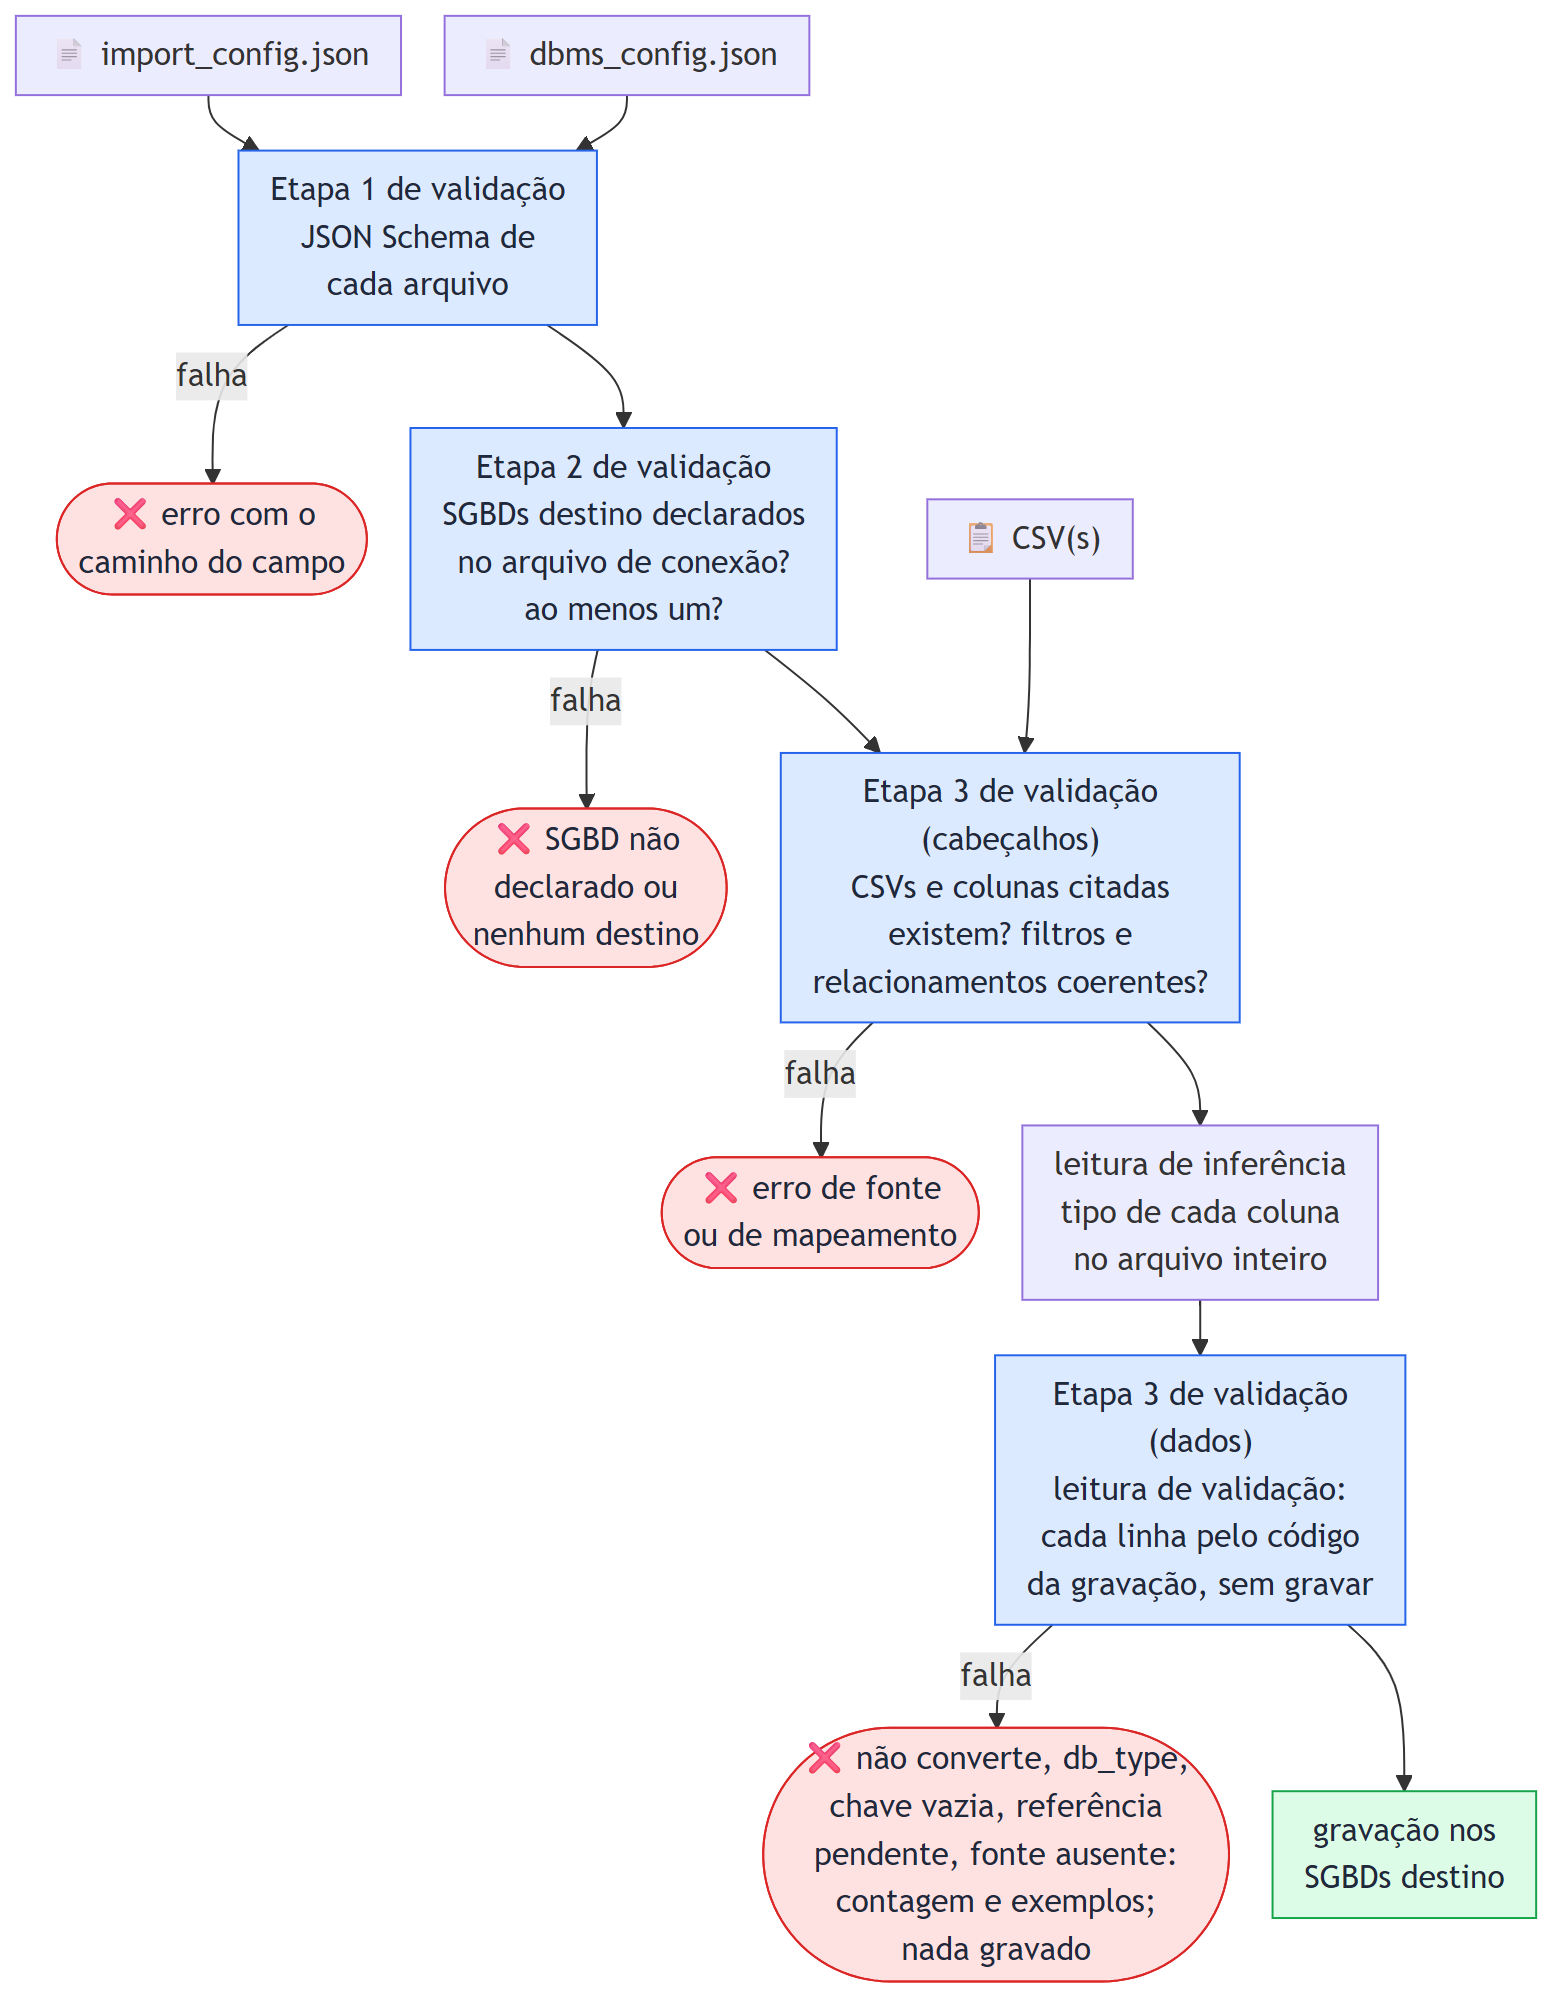
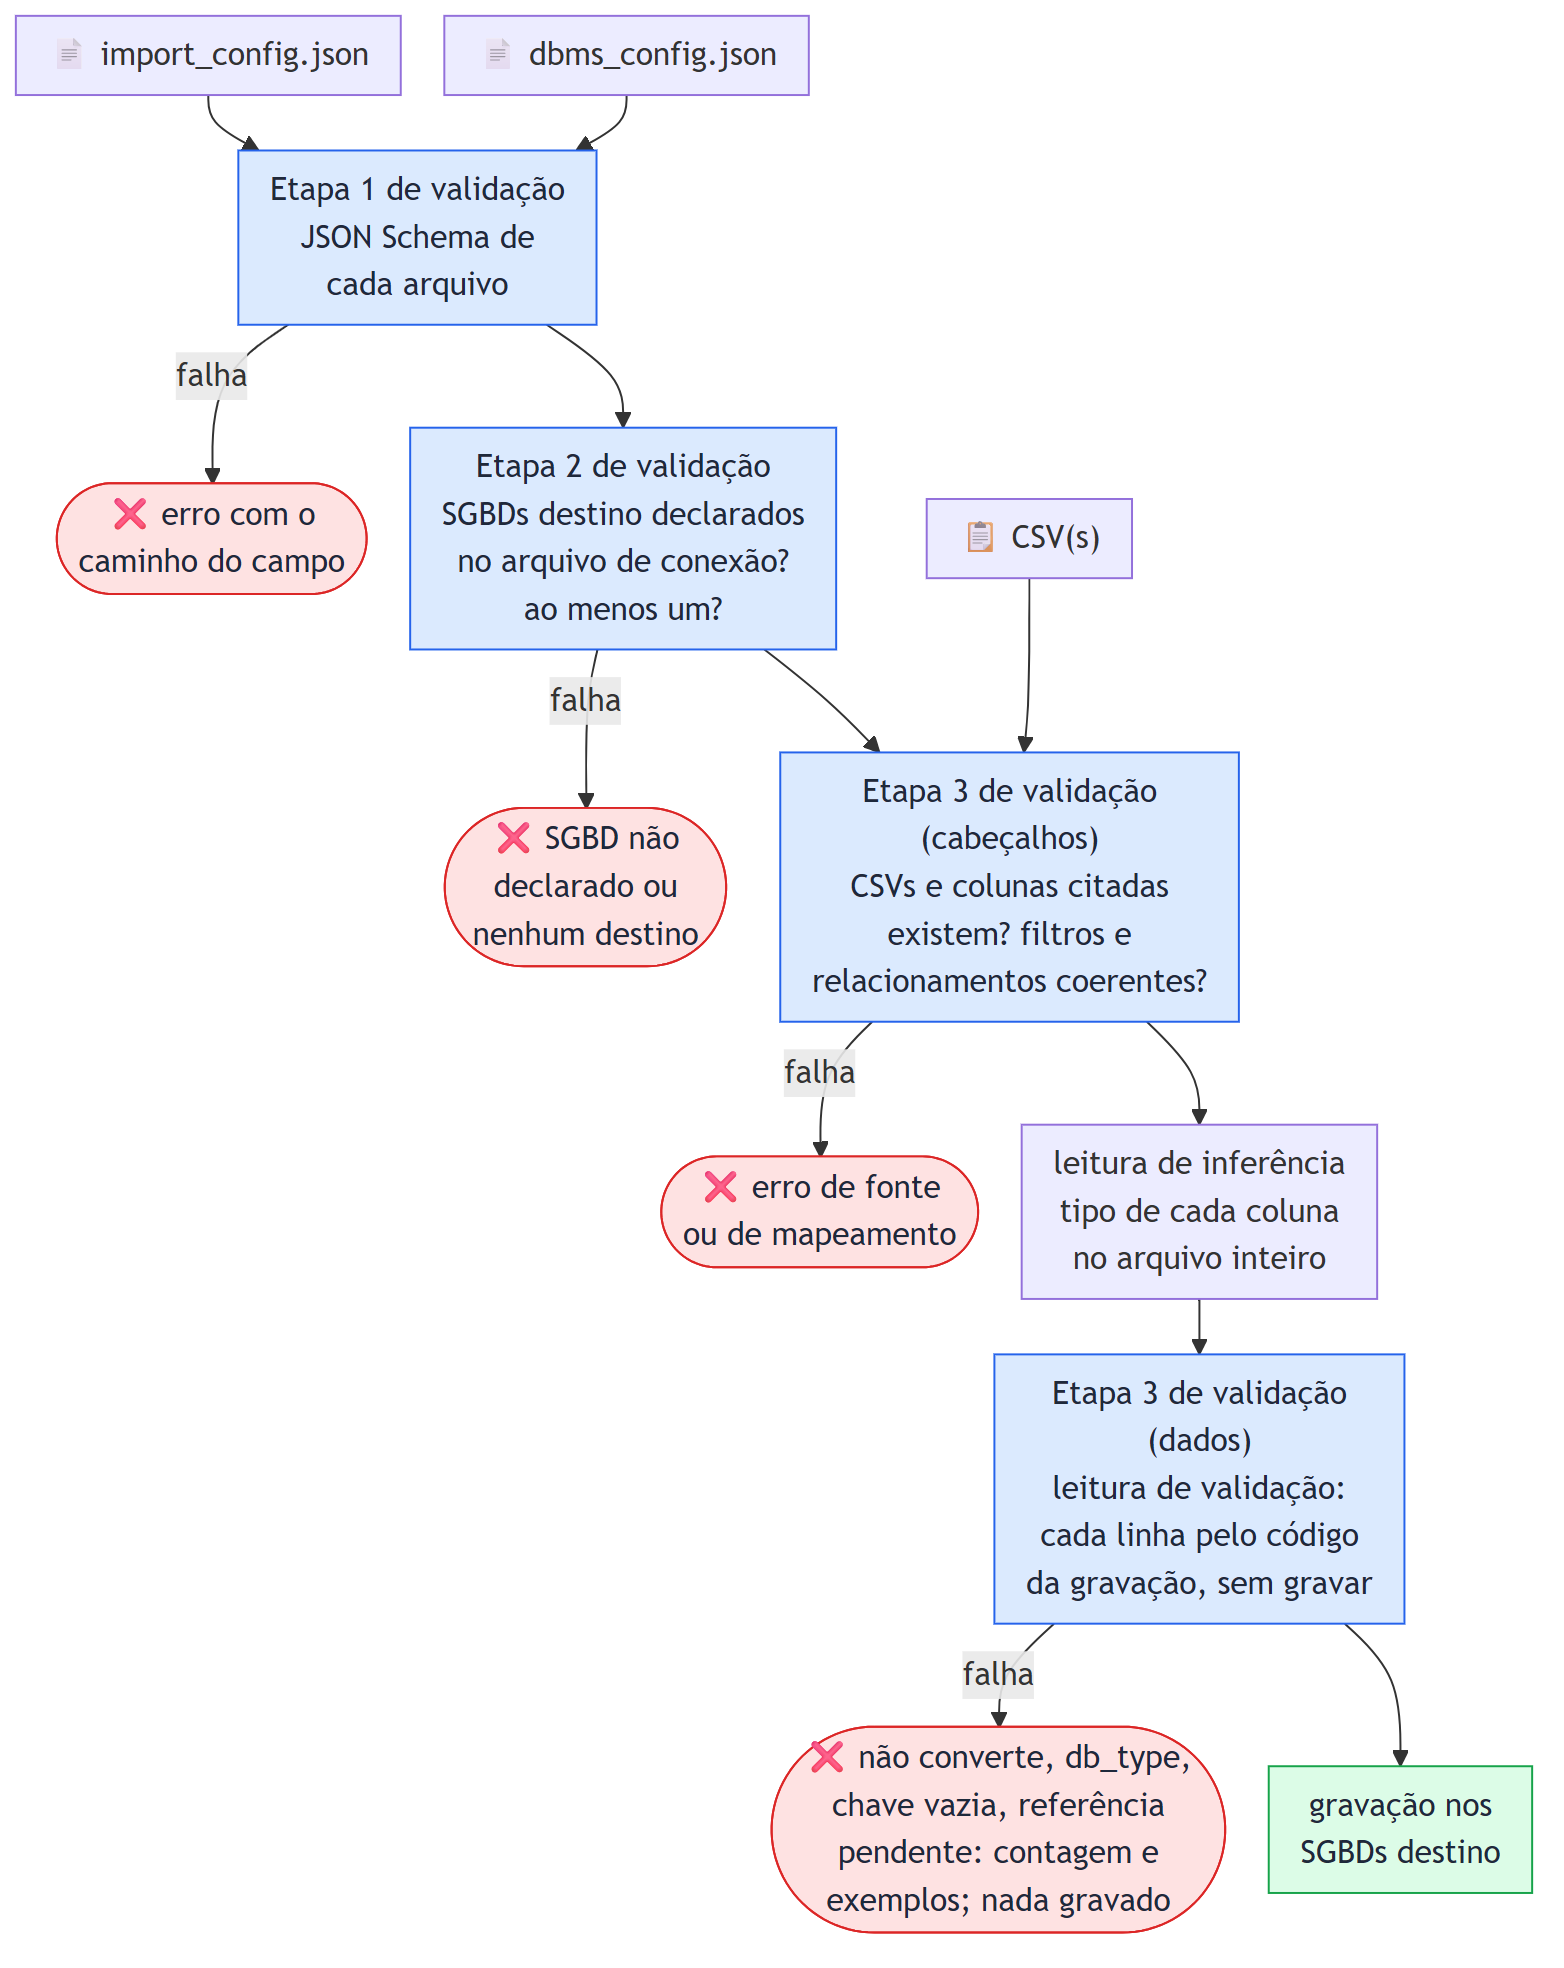
docs(tcc): secoes 4.2.3 e 4.2.4 com as tres etapas de validacao da 3.0.0
Itens 13 a 17: frase do mapeamento removida, tab:partes-conexao com 'sim; ao menos os SGBDs de destino' e a explicacao de que o schema so exige version, e a 4.2.4 aberta pela figura 10, com cada etapa descrita pelo que confere, sem nomes de funcao nem de excecao. A figura 10 deixa a fonte ausente do combinado para o texto, porque ela e recusada na leitura de inferencia.

Changed region(s): [[0.0307, 0.0, 0.9821, 0.9919]]

diff --git a/docs-tcc/chapters/ch4proposta.tex b/docs-tcc/chapters/ch4proposta.tex
@@ -721,8 +721,8 @@ nota da avaliação.
 \subsection{O Arquivo de Conexão}
 \label{sec:arquivo-conexao}
 
-O arquivo de conexão diz \textit{onde} alcançar cada SGBD, sem nenhuma informação de
-mapeamento. A Figura~\ref{fig:dbms-schema} mostra a estrutura do seu schema, também com
+O arquivo de conexão diz \textit{onde} alcançar cada SGBD. A Figura~\ref{fig:dbms-schema}
+mostra a estrutura do seu schema, também com
 os campos obrigatórios marcados com asterisco: a raiz, um bloco por SGBD e, dentro de cada
 bloco, os parâmetros de acesso. A Tabela~\ref{tab:partes-conexao} resume a finalidade de
 cada parte.
@@ -737,7 +737,7 @@ cada parte.
     \normalfont\textbf{Parte} & \textbf{Onde} & \textbf{Finalidade} & \textbf{Obrigatória?} \\
     \midrule
     version & raiz & versão do formato do arquivo (atualmente, 1) & sim \\
-    postgres, mongodb, cassandra, redis, neo4j & raiz & dar acesso a um SGBD & não; ao menos os SGBDs de destino \\
+    postgres, mongodb, cassandra, redis, neo4j & raiz & dar acesso a um SGBD & sim; ao menos os SGBDs de destino \\
     connection & bloco de SGBD & parâmetros de acesso & sim \\
     schema & bloco PostgreSQL & schema de destino das tabelas & não; padrão: \texttt{public} \\
     start & bloco de SGBD & como iniciar o SGBD & não \\
@@ -747,12 +747,15 @@ cada parte.
   {\footnotesize Fonte: Elaborado pelo autor (2026).}
 \end{table}
 
-A Listagem~\ref{lst:conexao-exemplo} mostra o início do arquivo de conexão do cenário,
-com os blocos do PostgreSQL e do MongoDB. As reticências marcam os descritores
+Como no arquivo de importação, os blocos de SGBD são obrigatórios na tabela, mas não na
+figura: o JSON Schema exige apenas \texttt{version}, e a exigência de que cada SGBD destino
+tenha o seu bloco é conferida na segunda etapa de validação (Seção~\ref{sec:validacao}).
+A Listagem~\ref{lst:conexao-exemplo} mostra o início do arquivo de conexão do cenário
+exemplo, com os blocos do PostgreSQL e do MongoDB. As reticências marcam os descritores
 \texttt{start}, tratados na Seção~\ref{sec:inicializacao-sgbds}, e os blocos dos demais
 SGBDs; o arquivo completo está no Apêndice~\ref{ap:config}.
 
-\begin{lstlisting}[style=jsonstyle,caption={Início do arquivo de conexão do cenário (\texttt{dbms\_config.json}).},label={lst:conexao-exemplo}]
+\begin{lstlisting}[style=jsonstyle,caption={Início do arquivo de conexão do cenário exemplo (\texttt{dbms\_config.json}).},label={lst:conexao-exemplo}]
 {
   "version": 1,
   "postgres": {
@@ -861,52 +864,70 @@ reproduzido no Apêndice~\ref{ap:config}, foi omitido. O PostgreSQL, instalado c
 serviço do Windows, é iniciado por \texttt{net start}; o
 Apache Cassandra, que não roda nativamente no Windows, é descrito por um serviço do
 Docker Compose, cujo arquivo tem caminho relativo à pasta do próprio arquivo de
-conexão. O cenário de exemplo traz três arquivos de conexão com as mesmas conexões e
+conexão. O cenário exemplo traz três arquivos de conexão com as mesmas conexões e
 descritores \texttt{start} distintos: \texttt{dbms\_config.json}, todo em Docker
 Compose; \texttt{dbms\_config\_windows.json}, com serviços do Windows; e
 \texttt{dbms\_config\_linux.json}, com o \texttt{systemctl}. Como os nomes de serviço
 dependem de cada instalação, os comandos desses arquivos são exemplos a ajustar.
 
-\subsection{Validação, Consistência entre Arquivos e Fluxo de Carregamento}
+\subsection{As Três Etapas de Validação}
 \label{sec:validacao}
 
-A validação ocorre em \textbf{três camadas} antes de qualquer gravação nos SGBDs. A
-primeira é a validação por \textbf{JSON Schema}: cada arquivo é validado contra o seu
-schema (sintaxe, tipos e propriedades permitidas) --- \texttt{import\_config.schema.json}
-para o arquivo de importação e \texttt{dbms\_config.schema.json} para o arquivo de
-conexão. A segunda é a \textbf{consistência entre arquivos}
-(\texttt{config\_parser.merge\_configs}): todo SGBD referenciado no arquivo
-de importação deve estar declarado no arquivo de conexão. A terceira é a
-\textbf{validação cruzada com os dados}: ao carregar as fontes
-(\texttt{sources.load\_sources}) e vincular cada entidade à sua fonte
-(\texttt{mapping\_resolver}), confere-se se as colunas referenciadas existem, se os SGBDs
-de modelo plano não usam \texttt{columns} aninhados, se as colunas de partição e
-agrupamento do Cassandra existem, se os filtros são coerentes e se as chaves estrangeiras
-do PostgreSQL e as arestas do Neo4j referenciam entidades válidas
-(\texttt{validation.validate\_backend\_entities}).
-
-Cada camada levanta uma exceção específica da hierarquia \texttt{BusinessException}, o que
-torna o diagnóstico preciso: \texttt{ConfigError} para erros de schema ou de consistência
-entre os arquivos; \texttt{SourceError} para problemas com os arquivos de fonte (por
-exemplo, um CSV inexistente ou uma coluna de origem vazia no modo combinado);
-\texttt{MappingError} para incoerências entre o mapeamento e os dados; e
-\texttt{ImportExecutionError} para falhas na conexão ou na gravação em um SGBD. Qualquer
-falha nas três primeiras camadas \textbf{impede} o início da importação. A
-Figura~\ref{fig:config-pipeline} apresenta o fluxo completo de carregamento, com os
-pontos de falha de cada camada e a convergência dos dois arquivos em uma configuração
-única, à qual os dados das fontes se juntam apenas na validação cruzada (camada 3). O
-diagrama evidencia por que a separação em dois arquivos isola falhas: um
-\texttt{dbms\_config.json} inválido é detectado independentemente do
-\texttt{import\_config.json}, sem necessidade de ler os CSVs.
+Antes de gravar qualquer dado, a ferramenta confere as entradas em três \textbf{etapas de
+validação}, mostradas na Figura~\ref{fig:config-pipeline}. Cada etapa só começa se a
+anterior passou, e qualquer problema encerra a execução com código de saída 1, sem gravar
+nada em nenhum SGBD.
 
 \begin{figure}[H]
   \centering
-  \includegraphics[width=14cm]{images/figure10-config-pipeline}
-  \caption{Fluxo de carregamento e validação das entradas da ferramenta.}
+  \includegraphics[width=\textwidth]{images/figure10-config-pipeline}
+  \caption{As três etapas de validação, todas antes da gravação.}
   \label{fig:config-pipeline}
   \par\vspace{4pt}
   {\footnotesize Fonte: Elaborado pelo autor (2026).}
 \end{figure}
+
+A \textbf{etapa 1 de validação} confere cada arquivo de configuração contra o seu JSON
+Schema (Apêndice~\ref{ap:schemas}): a sintaxe JSON, os tipos dos valores, os campos
+obrigatórios e as chaves permitidas. A mensagem de erro indica o caminho do campo
+recusado, como \texttt{\$.sources.stock}. Um erro em qualquer dos dois arquivos é
+apontado antes de qualquer CSV ser aberto.
+
+A \textbf{etapa 2 de validação} confere a consistência entre os dois arquivos: todo SGBD
+que tem um bloco no arquivo de importação precisa estar declarado no arquivo de conexão,
+e precisa restar ao menos um SGBD destino depois de aplicada a opção \texttt{-{}-only}.
+
+A \textbf{etapa 3 de validação} confronta o mapeamento com os CSVs, em duas partes. A
+primeira olha só os \textbf{cabeçalhos}: confere se os arquivos existem e se as colunas
+citadas no mapeamento estão neles, se os SGBDs de modelo plano (todos, exceto o MongoDB)
+não recebem colunas aninhadas, se as colunas de partição e de agrupamento do Cassandra
+existem, se os filtros são coerentes e se as chaves estrangeiras do PostgreSQL e as
+arestas do Neo4j ligam entidades válidas, nenhuma delas dividida por \texttt{each}.
+
+A segunda parte olha os \textbf{dados}. Depois da verificação dos SGBDs destino
+(Seção~\ref{sec:verificacao-sgbds}), omitida no \texttt{-{}-dry-run}, a ferramenta lê
+os CSVs duas vezes, em blocos. A \textbf{leitura de inferência} percorre cada arquivo
+inteiro e fixa o tipo de cada coluna (Seção~\ref{sec:colunas}); nela, uma entidade do modo
+combinado cuja fonte não aparece na coluna de origem do arquivo é recusada. A
+\textbf{leitura de validação} passa cada linha pelo mesmo código da gravação --- filtros,
+divisão por \texttt{each}, conversão de tipos e montagem dos registros de cada SGBD ---,
+com a escrita trocada por conferências, e aponta:
+
+\begin{itemize}
+  \item valor que não converte para o tipo da sua coluna;
+  \item valor que o \texttt{db\_type} declarado recusaria, como um inteiro grande demais
+  para a coluna;
+  \item chave vazia;
+  \item referência pendente: uma chave estrangeira do PostgreSQL ou uma aresta do Neo4j
+  que aponta para uma chave ausente da entidade de destino.
+\end{itemize}
+
+Cada tipo de problema é relatado com o número de ocorrências e até cinco exemplos, cada um
+com arquivo, linha, coluna e valor. A Figura~\ref{fig:import-example}, na
+Seção~\ref{sec:algoritmo}, acompanha esse caminho no cenário exemplo e mostra um problema
+de cada tipo. As etapas de validação não cobrem falhas que só aparecem durante a gravação,
+como a queda de um SGBD no meio da carga; nesse caso, a execução também termina com
+código 1, informando os SGBDs já gravados, e o que foi gravado permanece.
 
 \section{Algoritmo de Execução da Importação}
 \label{sec:algoritmo}
